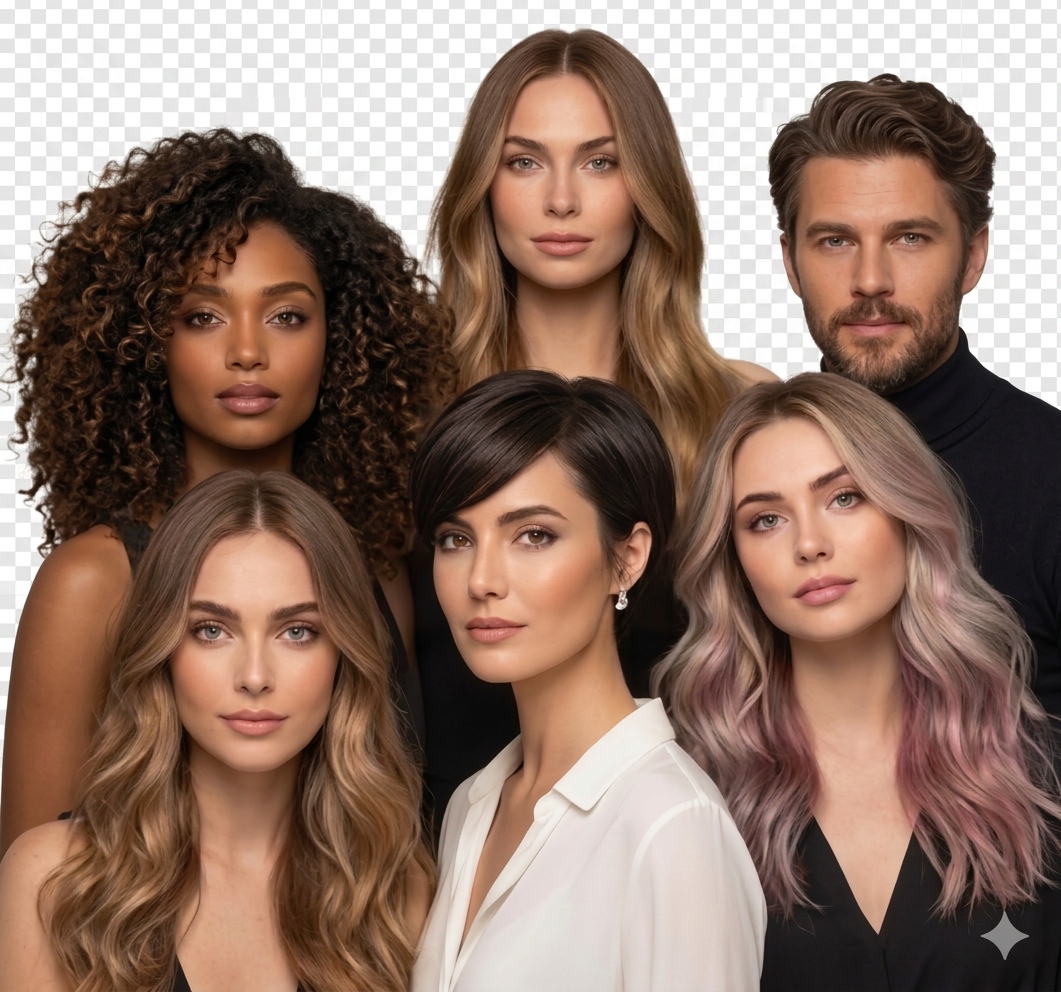
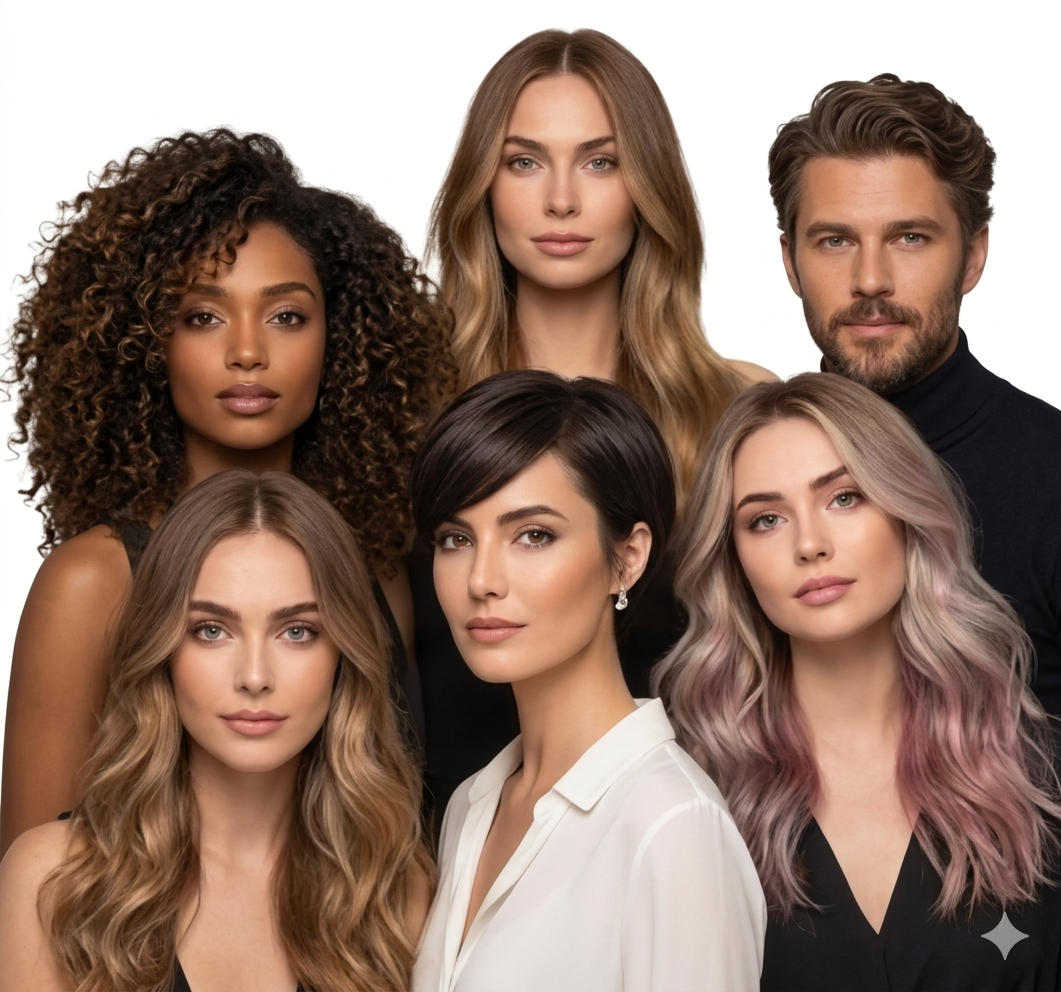
Reverted to commit 9a3e3b788c7006842bd1570991b27388e9896f31

Changed region(s): [[0.0, 0.0, 1.0, 0.4062], [0.0, 0.4688, 0.0622, 0.7188], [0.0, 0.4062, 0.0311, 0.4375]]

diff --git a/src/components/landing/HeroSection.tsx b/src/components/landing/HeroSection.tsx
@@ -2,7 +2,6 @@ import { Link } from "react-router-dom";
 import { Button } from "@/components/ui/button";
 import { ArrowRight, Twitter, Facebook } from "lucide-react";
 import heroModels from "@/assets/hero-models.png";
-import heroSalonBg from "@/assets/hero-salon-bg.jpg";
 
 export function HeroSection() {
   return (
@@ -10,29 +9,16 @@ export function HeroSection() {
       id="inicio"
       className="relative min-h-screen overflow-hidden bg-[hsl(40_30%_96%)] text-[hsl(0_0%_12%)]"
     >
-      {/* Models area: salon background full-width behind, models on right in front */}
-      <div className="absolute left-0 right-0 top-28 md:top-32 pointer-events-none">
-        {/* Full-width salon background, height matches models image */}
-        <div className="relative w-full">
-          <img
-            src={heroSalonBg}
-            alt=""
-            aria-hidden="true"
-            className="absolute inset-0 w-full h-full object-cover"
-          />
-          {/* Gradient overlay: stronger fade on left, softer toward right */}
-          <div className="absolute inset-0 bg-gradient-to-r from-[hsl(40_30%_96%)]/95 via-[hsl(40_30%_96%)]/70 to-[hsl(40_30%_96%)]/30" />
-
-          {/* Models image, kept at original size on the right */}
-          <div className="relative ml-auto w-[45%] md:w-[40%] lg:w-[38%]">
-            <img
-              src={heroModels}
-              alt="Profissionais do Salão Cloud — equipe diversa de cabeleireiros e maquiadores"
-              className="w-full h-auto object-contain object-top relative z-10"
-              loading="eager"
-            />
-          </div>
-        </div>
+      {/* Models image: right side, top aligned with "SALÃO CLOUD" headline */}
+      <div className="absolute right-0 top-28 md:top-32 w-[45%] md:w-[40%] lg:w-[38%] pointer-events-none">
+        <img
+          src={heroModels}
+          alt="Profissionais do Salão Cloud — equipe diversa de cabeleireiros e maquiadores"
+          className="w-full h-auto object-contain object-top"
+          loading="eager"
+        />
+        {/* Soft fade on the left edge to blend into cream background */}
+        <div className="absolute inset-0 bg-gradient-to-r from-[hsl(40_30%_96%)] via-transparent to-transparent" />
       </div>
 
       <div className="container mx-auto px-6 lg:px-10 pt-28 md:pt-32 pb-16 relative z-10 min-h-screen flex flex-col">
